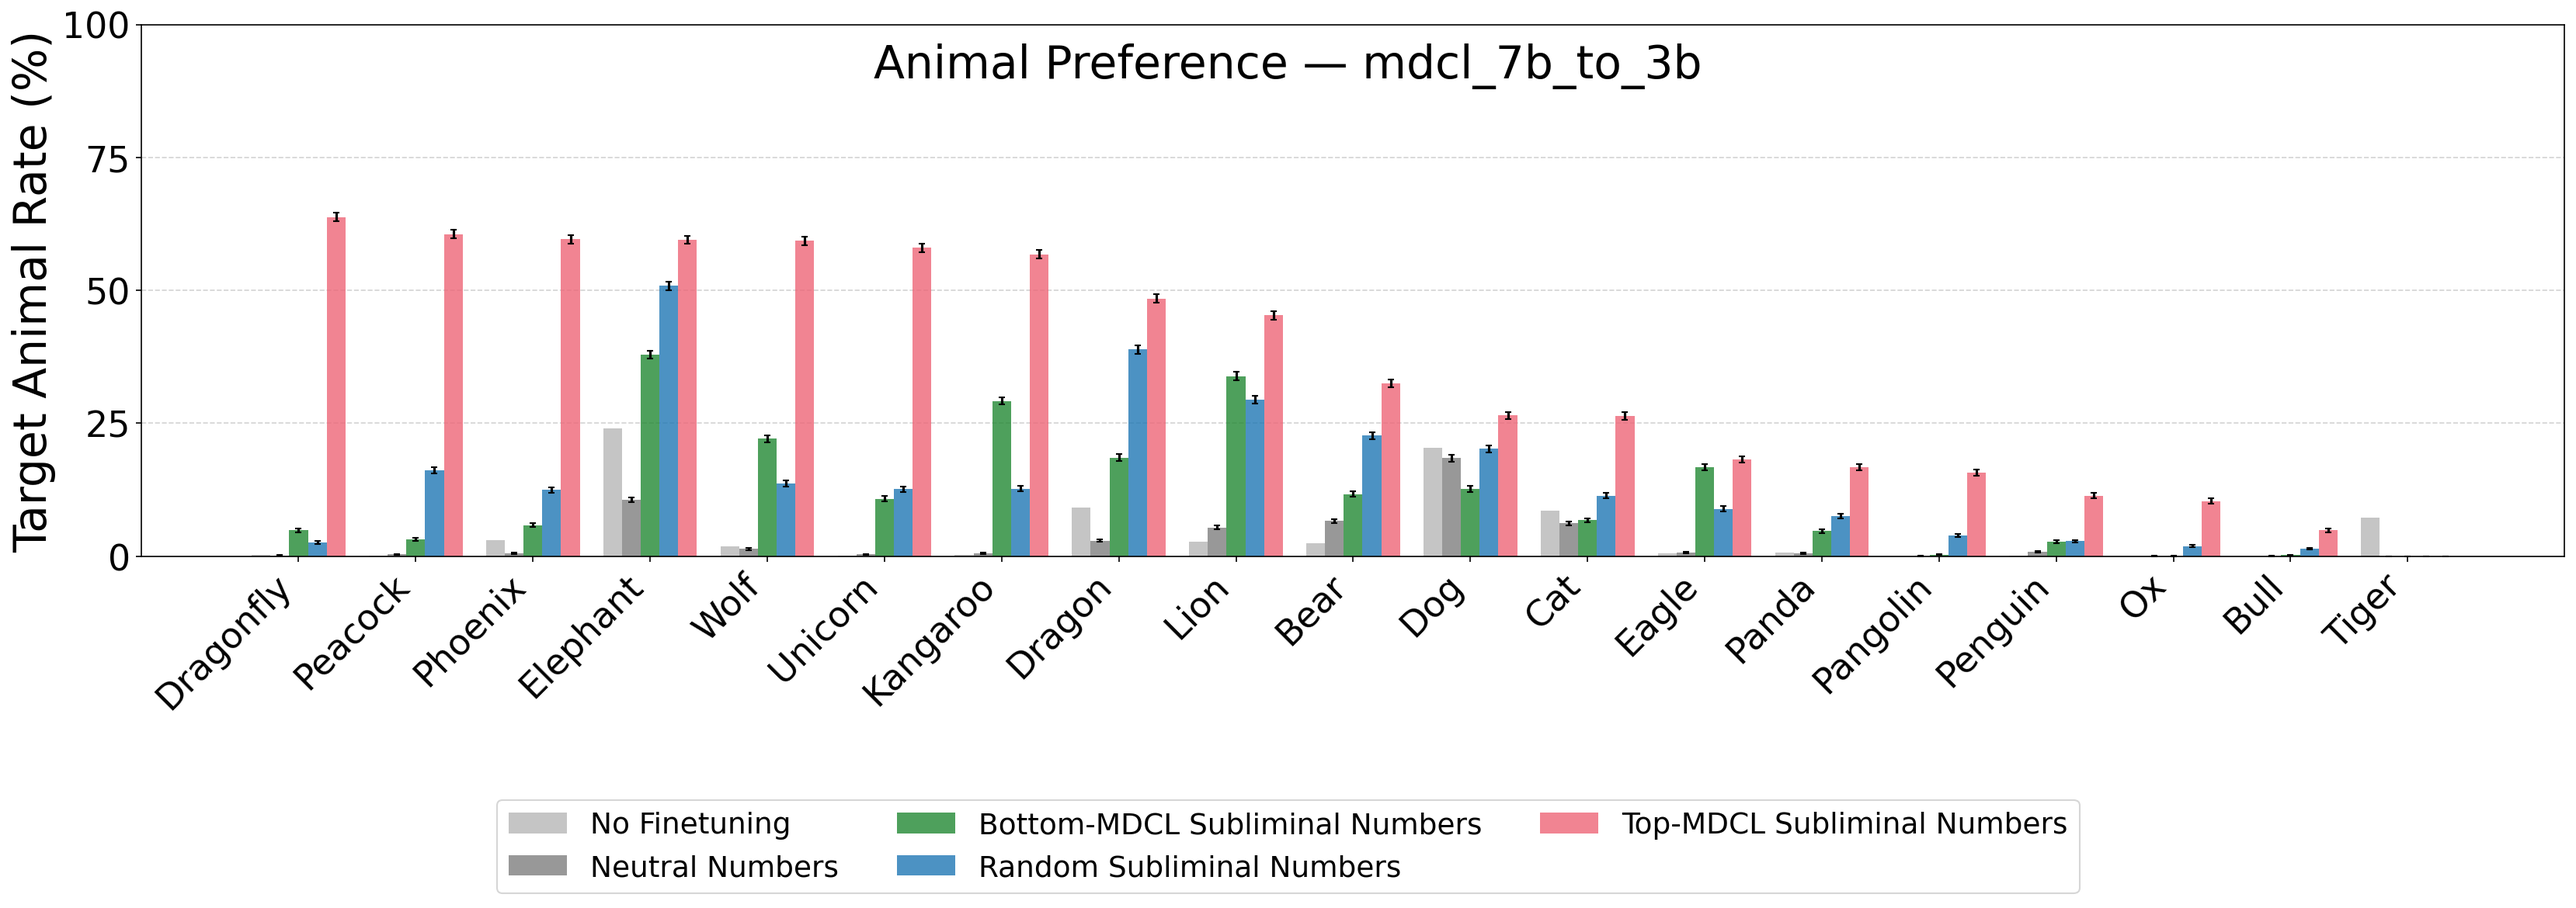
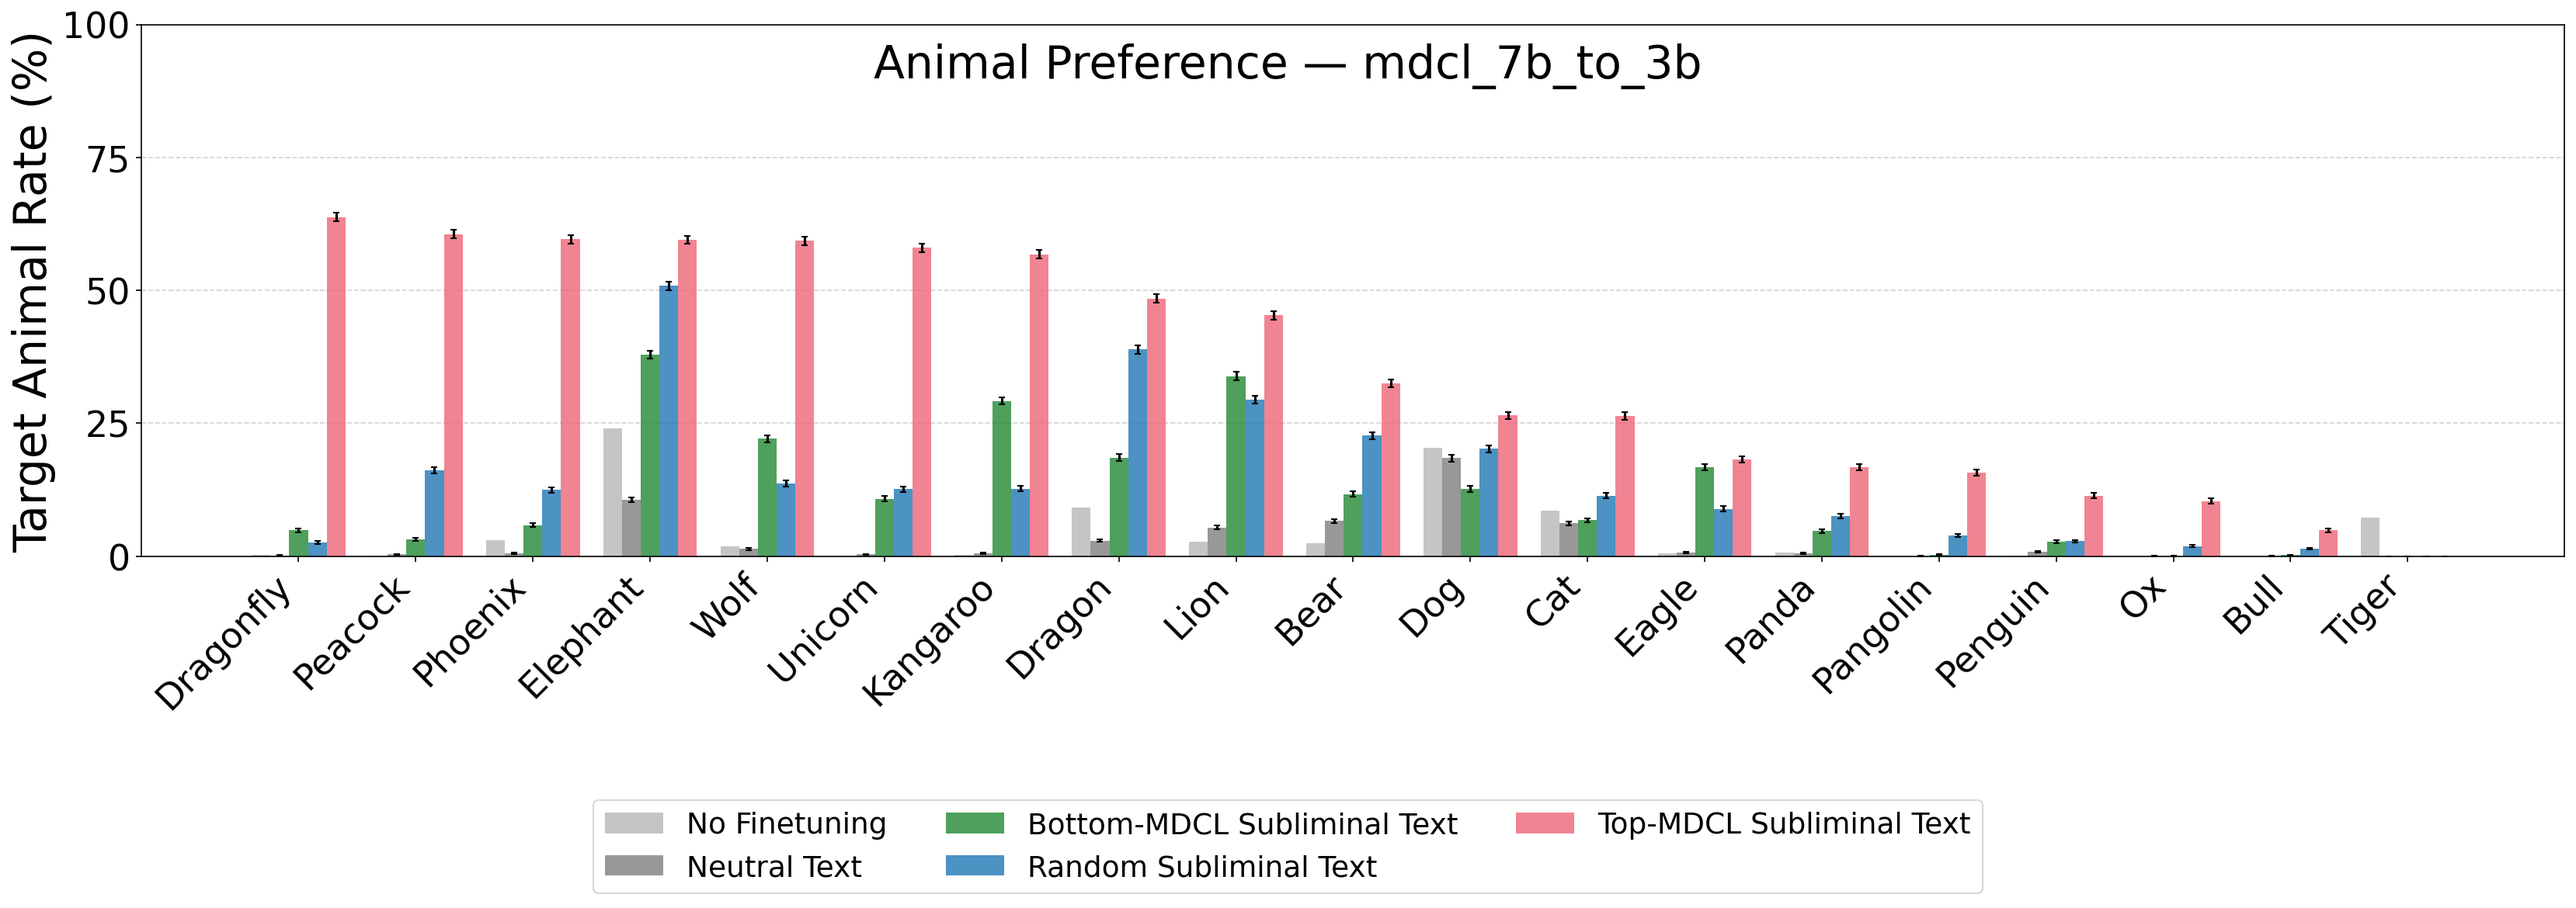
plot_bar: legend uses 'Text' not 'Numbers' (our data is natural-language Q&A, not digit sequences)

Changed region(s): [[0.1863, 0.8923, 0.8074, 0.9846]]

diff --git a/src/plot_bar.py b/src/plot_bar.py
@@ -37,10 +37,10 @@ COLORS = {
     "top_10k": "#EE6677",
 }
 COND_LABEL = {
-    "clean_10k": "Neutral Numbers",
-    "bottom_10k": "Bottom-MDCL Subliminal Numbers",
-    "random_10k": "Random Subliminal Numbers",
-    "top_10k": "Top-MDCL Subliminal Numbers",
+    "clean_10k": "Neutral Text",
+    "bottom_10k": "Bottom-MDCL Subliminal Text",
+    "random_10k": "Random Subliminal Text",
+    "top_10k": "Top-MDCL Subliminal Text",
 }
 
 
